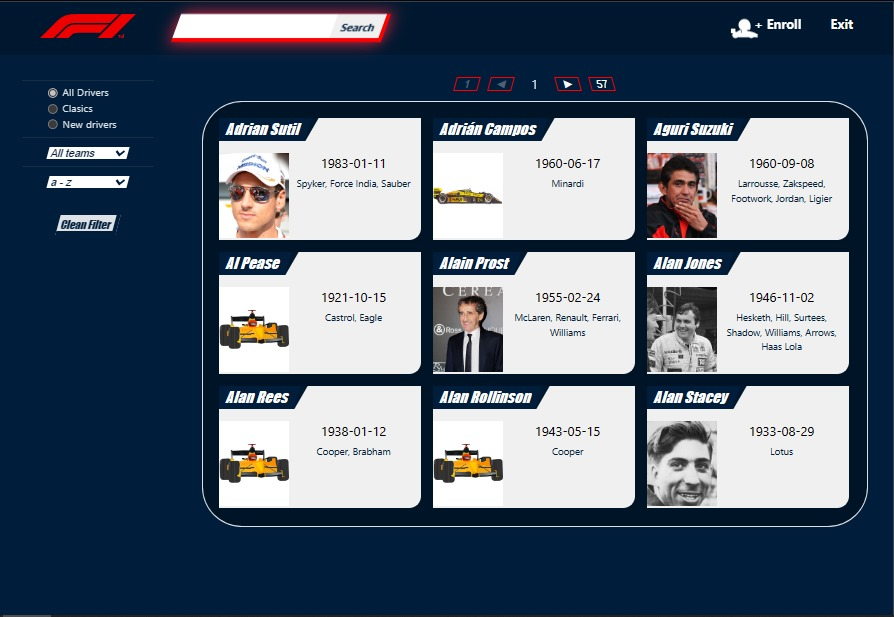
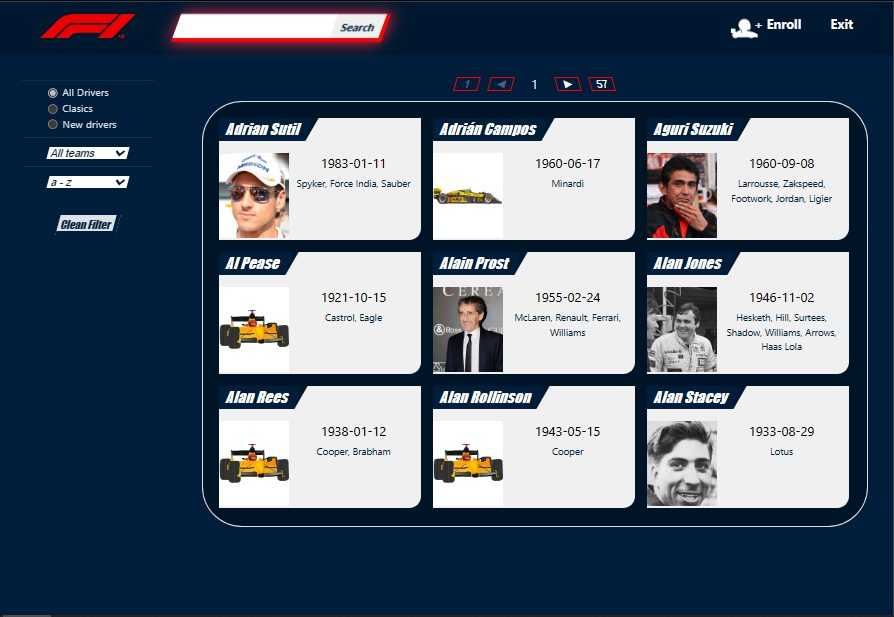
add images

diff --git a/src/utils/projects.ts b/src/utils/projects.ts
@@ -1,61 +1,89 @@
-import { Cards, Chat, Dashboard, Ecommerce, Filter, JWT, MercadoPago, MicroServices, RestAPI, SocketIo, Tag, ThreeD, VideGame } from "./Tag"
-import { Tool, angular, apollo, csharp, express, graphql, postgresql, react, redux, sequelize, tailwind, unity } from "./stack";
+import {
+  Cards,
+  Chat,
+  Dashboard,
+  Ecommerce,
+  Filter,
+  JWT,
+  MercadoPago,
+  MicroServices,
+  RestAPI,
+  SocketIo,
+  Tag,
+  ThreeD,
+  VideGame,
+} from "./Tag";
+import {
+  Tool,
+  angular,
+  apollo,
+  csharp,
+  express,
+  graphql,
+  postgresql,
+  react,
+  redux,
+  sequelize,
+  tailwind,
+  unity,
+} from "./stack";
 import { itchio } from "./Logos";
 import React from "react";
 
 export interface Project {
-    title: string
-    img: string
-    link: string | null
-    description: string
-    tags: Tag[]
-    stacks: Tool[]
-    buttonLink: string
-    logo: React.JSX.Element | null
+  title: string;
+  img: string;
+  link: string | null;
+  description: string;
+  tags: Tag[];
+  stacks: Tool[];
+  buttonLink: string;
+  logo: React.JSX.Element | null;
 }
-
 
 const FamilyBunny: Project = {
-    title: 'Family Bunny',
-    img: 'https://img.itch.zone/aW1nLzEyMjg1MjEzLnBuZw==/180x143%23c/4ZzYYD.png',
-    link: 'https://marcosmansilla.itch.io/family-bunny',
-    description: `Un simple juego sobre la familia conejo. \n Inpirado en el clasico juego de la vivorira.`,
-    tags: [VideGame, ThreeD],
-    stacks: [csharp, unity],
-    buttonLink: 'Jugar en itch.io',
-    logo: itchio(),
-}
+  title: "Family Bunny",
+  img: "https://img.itch.zone/aW1nLzEyMjg1MjEzLnBuZw==/180x143%23c/4ZzYYD.png",
+  link: "https://marcosmansilla.itch.io/family-bunny",
+  description: `Un simple juego sobre la familia conejo. \n Inpirado en el clasico juego de la vivorira.`,
+  tags: [VideGame, ThreeD],
+  stacks: [csharp, unity],
+  buttonLink: "Jugar en itch.io",
+  logo: itchio(),
+};
 const MercadoDeResiduos: Project = {
-    title: 'Mercado de Residuos',
-    img: 'https://media.discordapp.net/attachments/1126624954201411637/1160926418759331964/fondoMeetMDR.png?ex=656dcefb&is=655b59fb&hm=2892af054a11af6e7214de4d9d59de647ccd77a01a6e1719902605035b3a27a7&=&format=webp&width=840&height=473',
-    link: 'https://youtu.be/ZBi1--mW4GA?si=uDz2uGtCFXr0Iwo0',
-    description: `El proyecto de tienda B2B para MdR fue realizado como pasantía y proyecto final en Henry, una academia de programación online.`,
-    tags: [Ecommerce, Dashboard, RestAPI, MercadoPago, JWT, MicroServices],
-    stacks: [react, tailwind, apollo, graphql, sequelize, postgresql],
-    buttonLink: 'Ver video',
-    logo: null,
-}
+  title: "Mercado de Residuos",
+  img: "../src/assets/fMdR.png",
+  link: "https://youtu.be/ZBi1--mW4GA?si=uDz2uGtCFXr0Iwo0",
+  description: `El proyecto de tienda B2B para MdR fue realizado como pasantía y proyecto final en Henry, una academia de programación online.`,
+  tags: [Ecommerce, Dashboard, RestAPI, MercadoPago, JWT, MicroServices],
+  stacks: [react, tailwind, apollo, graphql, sequelize, postgresql],
+  buttonLink: "Ver video",
+  logo: null,
+};
 const ChatInLive: Project = {
-    title: 'Chat en vivo',
-    img: 'https://media.discordapp.net/attachments/1002306498053013565/1181094511154303026/image.png?ex=657fcefb&is=656d59fb&hm=e3860767a55e61bf3f1036371f3633a31c1f7ea5d0f2aef4098b685ef507bf3a&=&format=webp&quality=lossless',
-    link: 'https://chat-angular-client.vercel.app/', 
-    description: 'Desarrollé un sistema de chat en tiempo real con Socket.IO para la comunicación instantánea, brindando una experiencia fluida e interactiva de mensajería.',
-    tags: [Chat, SocketIo],
-    stacks: [angular, express],
-    buttonLink: 'Ver Chat',
-    logo: null,
-}
+  title: "Chat en vivo",
+  img: "../src/assets/chat-angular-socket.io.jpg",
+  link: "https://chat-angular-client.vercel.app/",
+  description:
+    "Desarrollé un sistema de chat en tiempo real con Socket.IO para la comunicación instantánea, brindando una experiencia fluida e interactiva de mensajería.",
+  tags: [Chat, SocketIo],
+  stacks: [angular, express],
+  buttonLink: "Ver Chat",
+  logo: null,
+};
 const Drivers: Project = {
-    title: 'Formula 1',
-    img: 'https://cdn.discordapp.com/attachments/1002306498053013565/1178446797442646037/drivers_post.jpg?ex=65762d1a&is=6563b81a&hm=2276f8a9c8f9b0de0a6f80b0e1130bac369411dc3dc4c53016e1c8fb64336f22&',
-    link: 'https://drivers-eight.vercel.app/',
-    description: 'Proyecto Individual en donde puse a prueba mis conocimiento con las tecnologías, tanto en back como en front, dictadas en Henry.',
-    tags: [Cards, Filter, RestAPI],
-    stacks: [react, redux, express, sequelize, postgresql],
-    buttonLink: 'Ver página',
-    logo: null,
-}
+  title: "Formula 1",
+  img: "../src/assets/drivers_post.jpg",
+  link: "https://drivers-eight.vercel.app/",
+  description:
+    "Proyecto Individual en donde puse a prueba mis conocimiento con las tecnologías, tanto en back como en front, dictadas en Henry.",
+  tags: [Cards, Filter, RestAPI],
+  stacks: [react, redux, express, sequelize, postgresql],
+  buttonLink: "Ver página",
+  logo: null,
+};
 /**
- * 
+ *
  */
-export default [FamilyBunny, MercadoDeResiduos, ChatInLive, Drivers]
+export default [FamilyBunny, MercadoDeResiduos, ChatInLive, Drivers];

diff --git a/src/components/Pokemon/Pokemon.tsx b/src/components/Pokemon/Pokemon.tsx
@@ -4,7 +4,7 @@ import { Button } from "../Button/Button";
 import { LevelContext, ToggleContext } from "../react-game/context";
 import { CachePokemonContext } from "../../pages/Games/Games";
 import RadarPokemon from "./Radar";
-import LazyImage from "./LazyImage";
+import LazyImagePokemon from "./LazyImagePokemon";
 
 export const Pokemon = () => {
   const {
@@ -63,7 +63,7 @@ export const Pokemon = () => {
             )}
           </div>
           <div className="w-24 h-24 flex items-center justify-center">
-            <LazyImage
+            <LazyImagePokemon
               loading={loading}
               error={error}
               src={pokemon?.sprites.front_default}

diff --git a/src/components/Pokemon/LazyImagePokemon/index.tsx b/src/components/Pokemon/LazyImagePokemon/index.tsx
@@ -7,10 +7,10 @@ type Props = {
   alt: string;
 };
 
-const LazyImage = ({ loading, error, src, alt }: Props) => {
+const LazyImagePokemon = ({ loading, error, src, alt }: Props) => {
   if (loading) return <img src="error" alt="loading" loading="lazy" />;
   if (error) return <h1>{error.message}</h1>;
   return <img className="w-24" src={src} alt={alt} loading="lazy" />;
 };
 
-export default LazyImage;
+export default LazyImagePokemon;
